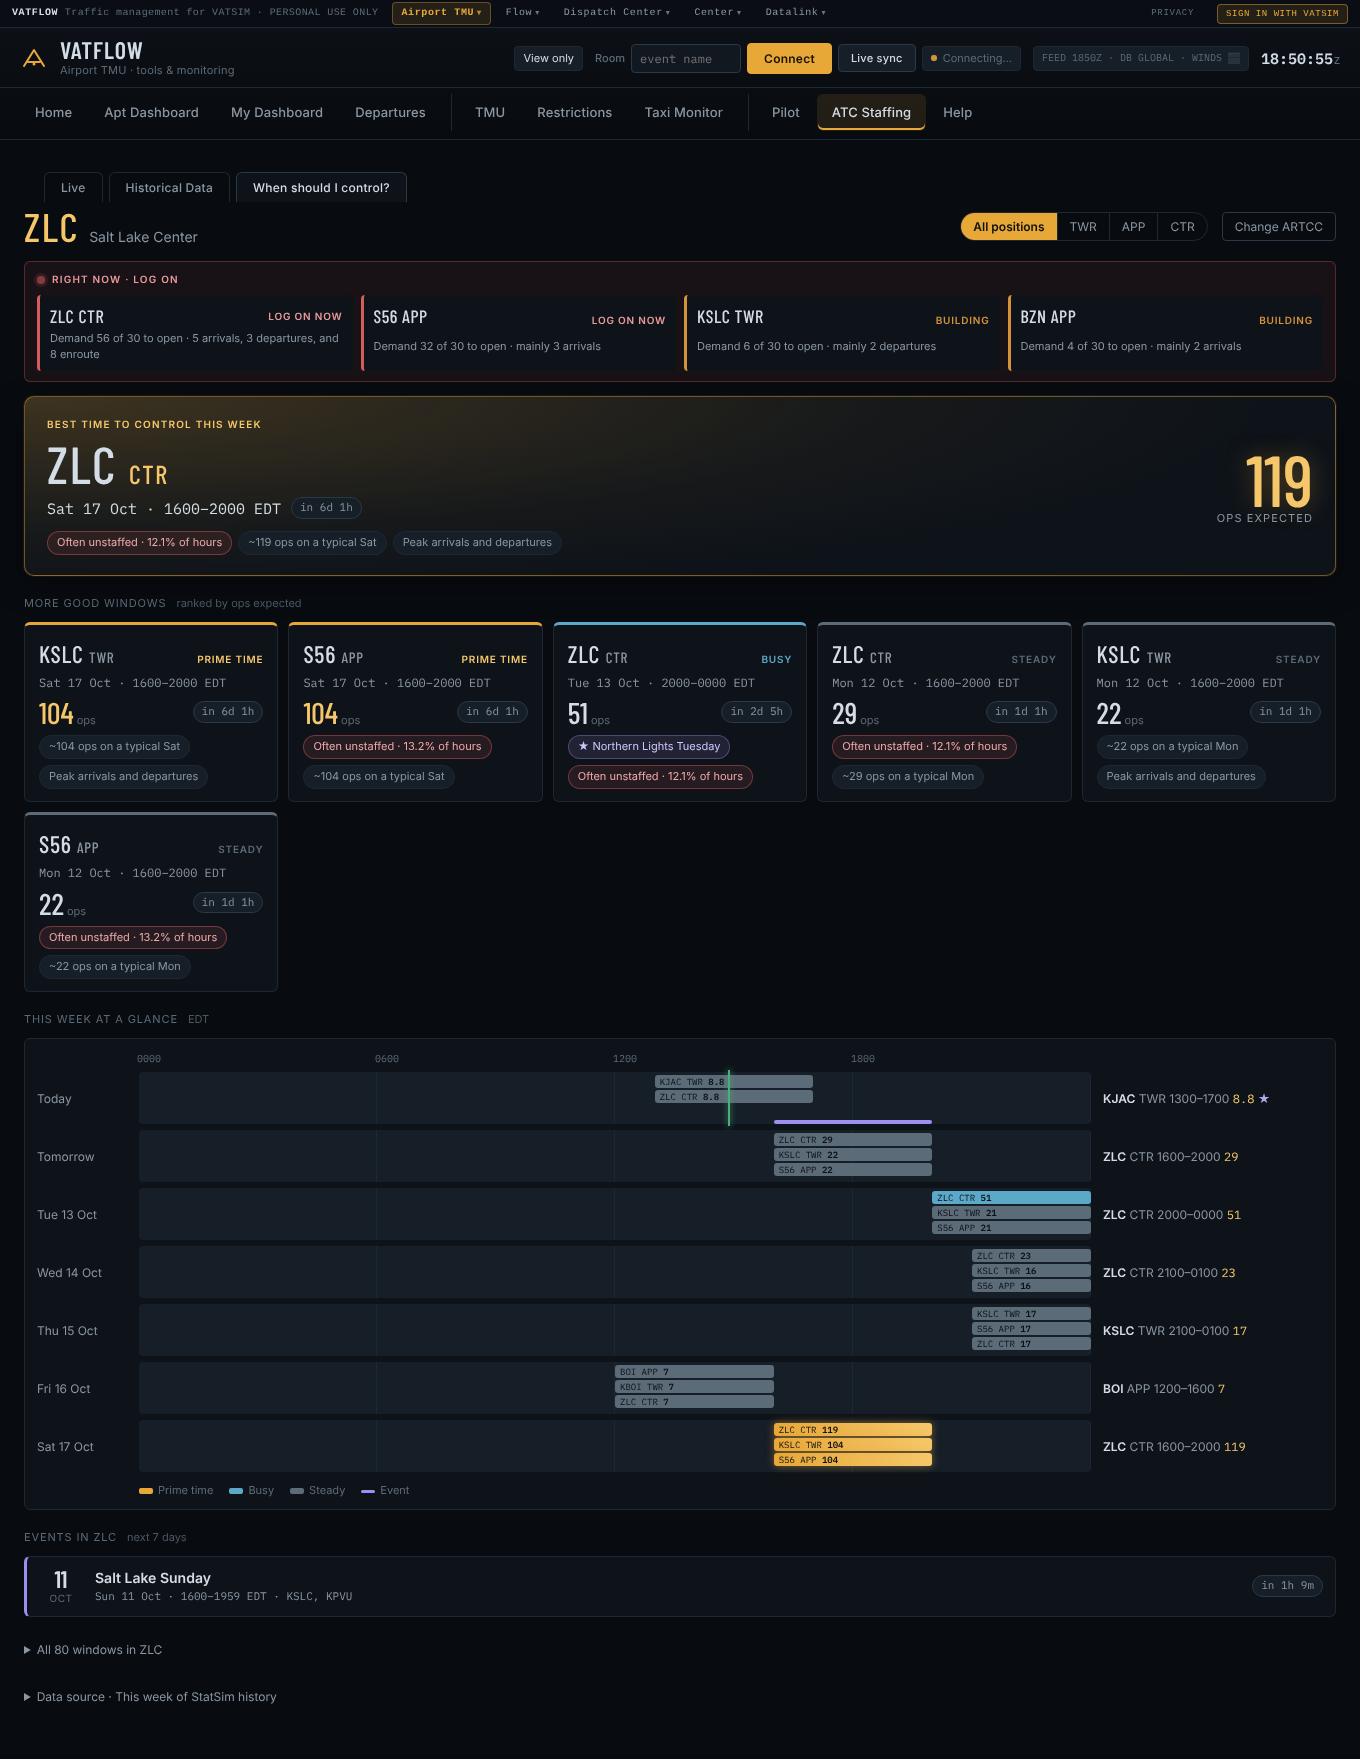
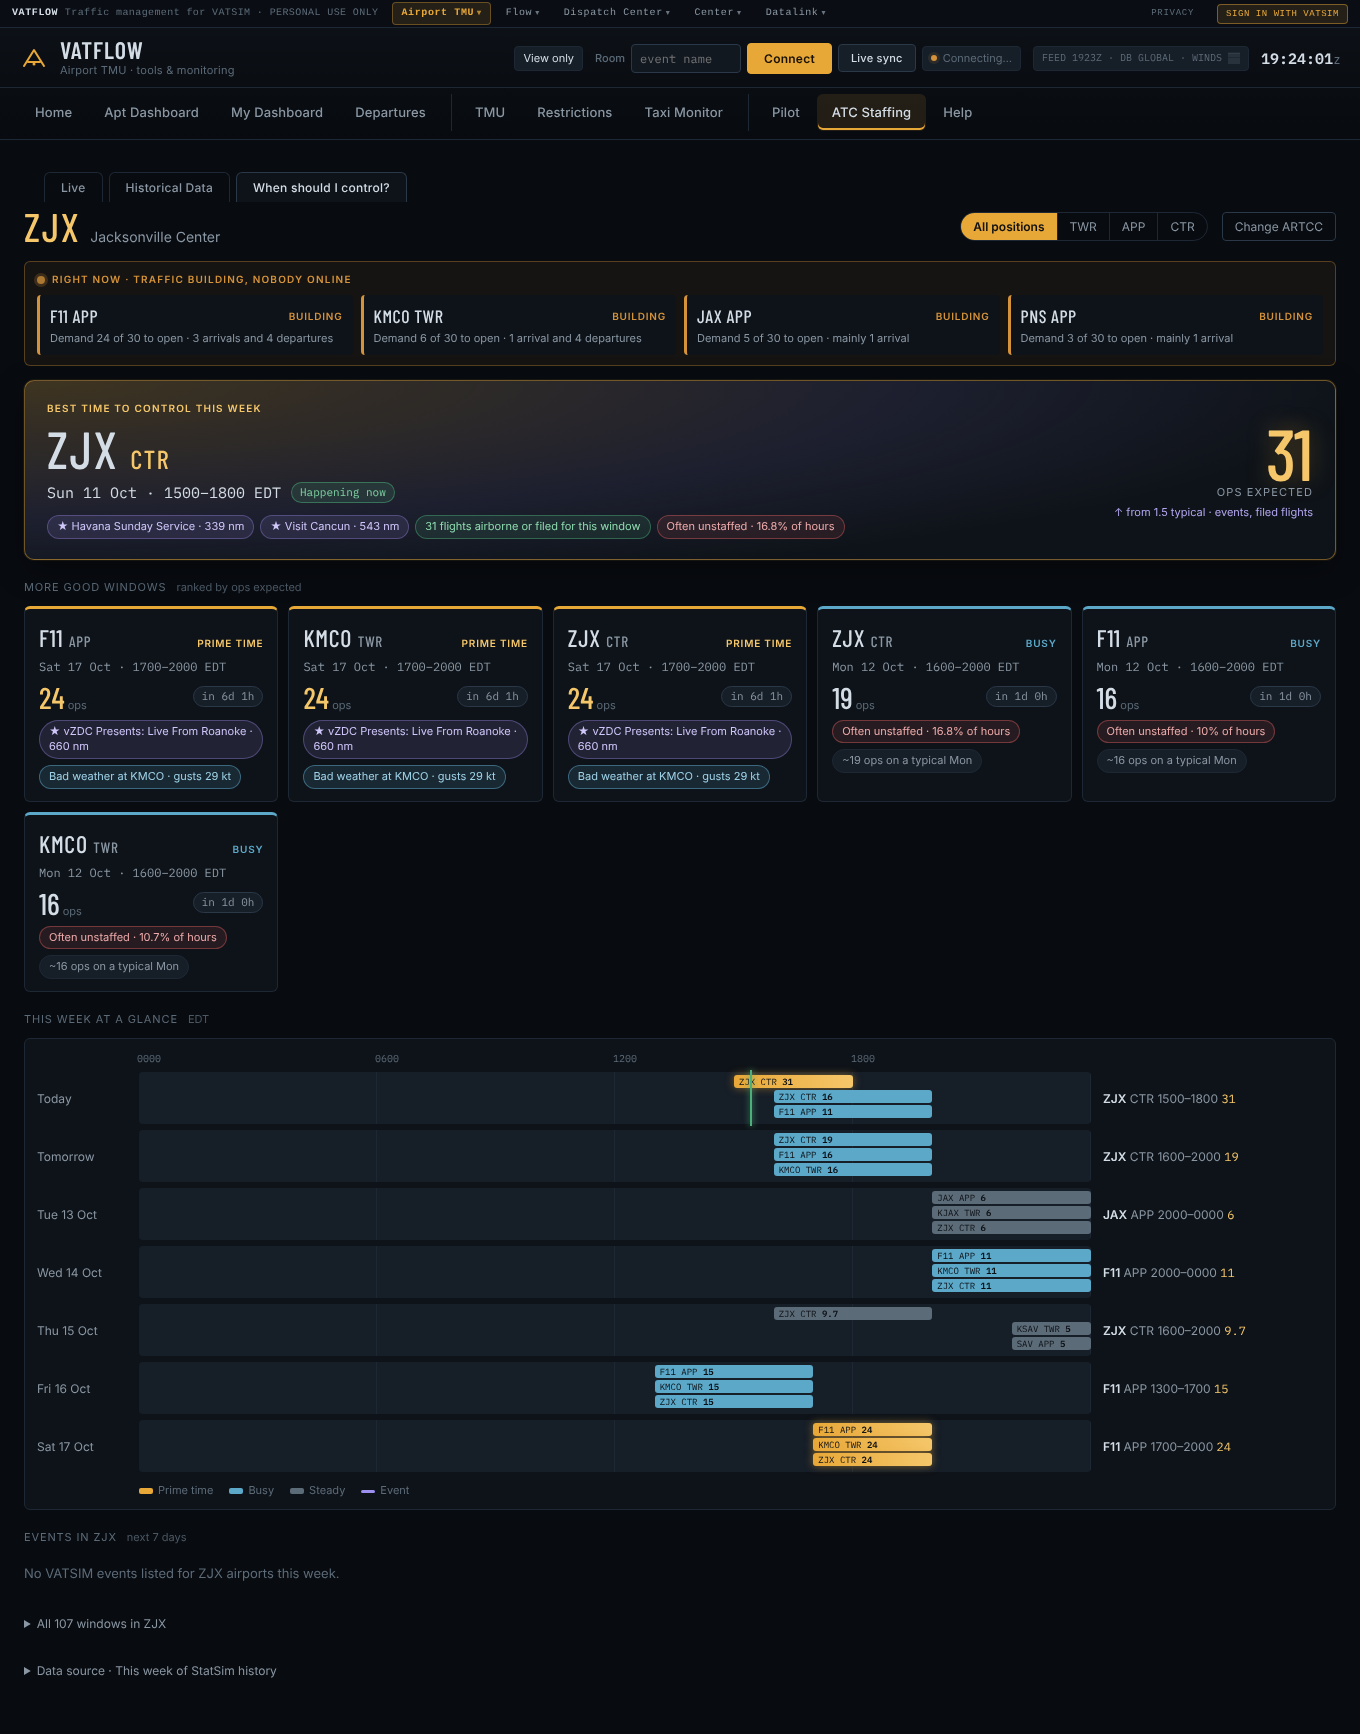
When should I control: predictions use live flights, prefiles, forecast weather, 2h events
- Board prediction takes the higher of history (with event uplift) and the
  flights already airborne, on the ground or prefiled for the window.
- NWS gridpoint forecast at the busiest field: gusts 25 kt+, visibility under
  1 SM or a ceiling under 200 ft adds 25%, shown as a reason chip.
- Events count out to 800 nm (about 2 hours' flight), from when their traffic
  would leave; full uplift within 150 nm, 0.6 weight beyond.

Claude-Session: https://claude.ai/code/session_01LQhLCojNVRJUVpgFQRFV3V

diff --git a/vatflow-tbfm v2.html b/vatflow-tbfm v2.html
@@ -1109,6 +1109,8 @@ tr:hover td { background: rgba(255, 255, 255, 0.02); }
 .wsic-chips { display: flex; flex-wrap: wrap; gap: 6px; }
 .wsic-chip { font-size: 11px; padding: 3px 9px; border-radius: 999px; background: var(--elevated); border: 1px solid var(--border); color: var(--text-dim); }
 .wsic-chip.ev { background: rgba(123, 110, 184, 0.18); border-color: rgba(123, 110, 184, 0.5); color: #cfc6fa; }
+.wsic-chip.wx { background: rgba(91, 168, 201, 0.15); border-color: rgba(91, 168, 201, 0.5); color: #9fd2e8; }
+.wsic-chip.live { background: rgba(76, 175, 122, 0.13); border-color: rgba(76, 175, 122, 0.45); color: #8fdcb0; }
 .wsic-chip.gap { background: rgba(212, 92, 92, 0.12); border-color: rgba(212, 92, 92, 0.45); color: #eeaaaa; }
 .wsic-sec { font-size: 11px; color: var(--text-muted); letter-spacing: 0.08em; text-transform: uppercase; margin: 20px 0 10px; display: flex; gap: 10px; align-items: baseline; }
 .wsic-sec span { text-transform: none; letter-spacing: 0; color: var(--text-muted); opacity: 0.8; }
@@ -4241,6 +4243,7 @@ function computeStaffingRecommendations() {
     centers: centerRows,
     approaches: appRows,
     towers: twrRows.slice(0, 40),
+    maps: { CTR: centers, APP: approaches, TWR: towers },
     boundariesReady: boundariesStatus === "ok",
     controllerCount: controllers.length
   };
@@ -4303,7 +4306,10 @@ const STAFFING_HIST_PERIODS = [
 const STAFFING_HIST_DOW = ["Sun", "Mon", "Tue", "Wed", "Thu", "Fri", "Sat"];
 const STATSIM_COUNTRY_US = "https://statsim.net/flights/countries/country/US/";
 const VATSIM_EVENTS_URL = "https://my.vatsim.net/api/v2/events/latest";
-const STAFF_EVENT_RADIUS_NM = 500;
+const STAFF_EVENT_RADIUS_NM = 800;     /* about 2 hours' flight: event traffic from this far still passes through */
+const STAFF_EVENT_LOCAL_NM = 150;      /* events this close get the full uplift; farther ones feed traffic in or out */
+const STAFF_EVENT_FEEDER_WEIGHT = 0.6;
+const STAFF_EVENT_GS_KT = 420;         /* rough block speed to turn distance into flight time */
 const STAFF_EVENT_SCORE_BOOST = 0.35;   /* +35% predicted ops per overlapping nearby event (capped at 2) */
 const STATSIM_FETCH_PROXIES = [
   u => "https://r.jina.ai/https://" + u.replace(/^https?:\/\//, ""),
@@ -5402,7 +5408,9 @@ function histUpcomingEventsForSlot(slot, win, networkEvents) {
   const nearbyMap = {};
   for (const icao of ids) {
     for (const ev of eventsNearAirport(icao, networkEvents || [], radius)) {
-      if (!(ev.startMs < win.endMs && ev.endMs > win.startMs)) continue;
+      /* Feeder traffic leaves this far from the event about one flight time before it starts. */
+      const leadMs = Math.min(2, ev.nm / STAFF_EVENT_GS_KT) * 3600000;
+      if (!(ev.startMs - leadMs < win.endMs && ev.endMs > win.startMs)) continue;
       const k = String(ev.id);
       if (!nearbyMap[k] || ev.nm < nearbyMap[k].nm) nearbyMap[k] = ev;
     }
@@ -5466,8 +5474,10 @@ function enrichStaffingHistTableRow(slot, networkEvents, nowMs) {
   const avgDep = histRoundOps((staffWin.dep || 0) / samples);
   const avgArr = histRoundOps((staffWin.arr || 0) / samples);
   const eventCount = upcomingEvents.length;
+  const eventWeight = upcomingEvents.reduce((w, ev) =>
+    w + (ev.nm <= STAFF_EVENT_LOCAL_NM ? 1 : STAFF_EVENT_FEEDER_WEIGHT), 0);
   const eventMult = eventCount
-    ? (1 + STAFF_EVENT_SCORE_BOOST * Math.min(2, eventCount))
+    ? (1 + STAFF_EVENT_SCORE_BOOST * Math.min(2, eventWeight))
     : 1;
   let predOps = win ? histRoundOps(avgOps * eventMult) : 0;
   const artcc = histSlotArtcc(slot);
@@ -5605,7 +5615,15 @@ function wsicReasons(row, cov) {
   const out = [];
   for (const ev of (row.upcomingEvents || []).slice(0, 2)) {
     const name = String(ev.name || "Event");
-    out.push({ cls: "ev", text: "\u2605 " + (name.length > 34 ? name.slice(0, 32) + "\u2026" : name) });
+    out.push({ cls: "ev", text: "\u2605 " + (name.length > 34 ? name.slice(0, 32) + "\u2026" : name) +
+      (ev.nm > STAFF_EVENT_LOCAL_NM ? " \u00b7 " + ev.nm + " nm" : "") });
+  }
+  if (row.wxBad && row.wxBad.length) {
+    out.push({ cls: "wx", text: "Bad weather at " + row.wxIcao + " \u00b7 " + row.wxBad.join(", ") });
+  }
+  if (row.liveCount) {
+    out.push({ cls: "live", text: row.liveCount + " flight" + (row.liveCount === 1 ? "" : "s") +
+      " airborne or filed for this window" });
   }
   const pct = cov[row.type + "|" + row.id];
   if (pct != null) {
@@ -5632,10 +5650,104 @@ function wsicTraconArtcc(tid) {
   return best;
 }
 /** Live feed positions in this ARTCC that want a controller right now. */
-function wsicLiveNow(artcc) {
+/* ---- Prediction adjustments: live flights + prefiles, forecast weather ---- */
+const WSIC_WX_TTL_MS = 60 * 60000;
+const WSIC_WX_BOOST = 0.25;            /* bad weather: every arrival is an approach to work */
+const WSIC_WX_MAX_FIELDS = 10;
+let wsicWx = {};                       /* icao -> { status, props, at } */
+/** Field whose weather stands for this window (the tower, or the busiest field under an APP / CTR). */
+function wsicAnchor(row) {
+  if (row.type === "TWR") return row.id;
+  let best = "", n = -1;
+  for (const [icao, v] of Object.entries(row.airports || {})) if (v > n) { best = icao; n = v; }
+  return best;
+}
+function wsicEnsureWx(icaos) {
+  const now = Date.now();
+  for (const icao of icaos) {
+    const c = wsicWx[icao];
+    if (c && (c.status === "loading" || now - c.at < WSIC_WX_TTL_MS)) continue;
+    const ll = lookup(icao);
+    if (!ll) { wsicWx[icao] = { status: "error", at: now }; continue; }
+    wsicWx[icao] = { status: "loading", at: now };
+    evNwsGrid(ll).then(props => {
+      wsicWx[icao] = { status: "ok", props, at: Date.now() };
+    }).catch(() => {
+      wsicWx[icao] = { status: "error", at: Date.now() };
+    }).finally(() => {
+      if (staffingSub === "lookup") renderContent();
+    });
+  }
+}
+/** Forecast in the window that makes it hard work: gusts, visibility under 1 SM, ceiling under 200 ft. */
+function wsicBadWx(props, startMs, endMs) {
+  const EP = window.VF_EventPlan;
+  if (!props || !EP) return [];
+  const vals = layer => {
+    const out = [];
+    for (const x of (layer && layer.values) || []) {
+      const r = EP.parseValidTime(x.validTime);
+      if (r && r[1] > startMs && r[0] < endMs && x.value != null) out.push(x.value);
+    }
+    return out;
+  };
+  const bad = [];
+  const gust = vals(props.windGust);
+  const gustKt = gust.length ? Math.round(Math.max(...gust) / 1.852) : 0;
+  if (gustKt >= 25) bad.push("gusts " + gustKt + " kt");
+  const vis = vals(props.visibility);
+  const visSm = vis.length ? Math.min(...vis) / 1609.34 : 99;
+  if (visSm < 1) bad.push("vis " + (Math.round(visSm * 10) / 10) + " SM");
+  /* NWS sends a negative height for "no ceiling" */
+  const ceil = vals(props.ceilingHeight).filter(v => v > 0);
+  const ceilFt = ceil.length ? Math.min(...ceil) * 3.28084 : 99999;
+  if (ceilFt < 200) bad.push("ceiling " + Math.round(ceilFt) + " ft");
+  return bad;
+}
+/** Live arrivals / departures (airborne, on the ground, prefiled) timed inside the window. */
+function wsicLiveCount(rec, row) {
+  const d = rec && rec.maps && rec.maps[row.type] && rec.maps[row.type][row.id];
+  if (!d) return 0;
+  let n = 0;
+  for (const ev of d.events) if (ev.t >= row.upcomingStartMs && ev.t < row.upcomingEndMs) n++;
+  return n;
+}
+/**
+ * Board prediction: history (with event uplift) or the flights already airborne / filed
+ * for the window, whichever is higher, raised when the field's forecast is bad.
+ */
+function wsicAdjustRows(rows, rec) {
+  const pre = rows.map(r => {
+    const liveCount = wsicLiveCount(rec, r);
+    return Object.assign({}, r, { liveCount, wxIcao: wsicAnchor(r), predOps: Math.max(r.predOps, liveCount) });
+  });
+  const fields = [];
+  for (const r of wsicRankRows(pre)) {
+    if (r.wxIcao && fields.indexOf(r.wxIcao) === -1) fields.push(r.wxIcao);
+    if (fields.length >= WSIC_WX_MAX_FIELDS) break;
+  }
+  wsicEnsureWx(fields);
+  for (const r of pre) {
+    const wx = wsicWx[r.wxIcao];
+    r.wxBad = wx && wx.status === "ok" ? wsicBadWx(wx.props, r.upcomingStartMs, r.upcomingEndMs) : [];
+    if (r.wxBad.length) r.predOps = histRoundOps(r.predOps * (1 + WSIC_WX_BOOST));
+  }
+  return pre;
+}
+function wsicUpliftWhy(row) {
+  const why = [];
+  if (row.eventBoost) why.push("events");
+  if (row.liveCount > row.avgOps) why.push("filed flights");
+  if (row.wxBad && row.wxBad.length) why.push("weather");
+  return why.join(", ");
+}
+function wsicLiveRec() {
   if (!vatsim) return null;
   ensureBoundariesIfNeeded();
-  const rec = computeStaffingRecommendations();
+  return computeStaffingRecommendations();
+}
+function wsicLiveNow(rec, artcc) {
+  if (!rec) return null;
   const out = [];
   for (const r of rec.centers) if (r.id === artcc) out.push(r);
   for (const r of rec.approaches) if (wsicTraconArtcc(r.id) === artcc) out.push(r);
@@ -5673,7 +5785,11 @@ function wsicDataSourceHtml() {
   h += '<div class="staffnote">Windows are the busiest 2\u20134 hours for each facility and weekday in the loaded ' +
     "StatSim period, placed on their next date in the coming 7 days. <b>Ops expected</b> is the typical " +
     "arrivals + departures in that window, raised " + Math.round(STAFF_EVENT_SCORE_BOOST * 100) +
-    "% per overlapping VATSIM event within " + STAFF_EVENT_RADIUS_NM + " nm (max two). " +
+    "% per overlapping VATSIM event within " + STAFF_EVENT_LOCAL_NM + " nm, and less for events up to " +
+    STAFF_EVENT_RADIUS_NM + " nm away (about 2 hours\u2019 flight, counted from when their traffic would leave), max two. " +
+    "If more flights are already airborne, on the ground, or prefiled for the window than history expects, that count is used. " +
+    "A forecast of gusts 25 kt+, visibility under 1 SM, or a ceiling under 200 ft (NWS gridpoint forecast at the busiest field) adds " +
+    Math.round(WSIC_WX_BOOST * 100) + "%. " +
     "<b>Usually unstaffed</b> uses StatSim controller hours for the same period. " +
     "Open <b>Historical Data</b> for the full national table.</div>";
   return h + "</details>";
@@ -5791,7 +5907,8 @@ function renderWsicBoard(res) {
   h += wsicStatusBanner();
 
   /* Right now: live feed demand with nobody online */
-  const live = wsicLiveNow(artcc);
+  const rec = wsicLiveRec();
+  const live = wsicLiveNow(rec, artcc);
   if (live && live.length) {
     const urgent = live.some(r => r.status === "need");
     h += '<div class="wsic-live' + (urgent ? "" : " warm") + '"><div class="wsic-live-hd"><span class="wsic-dot"></span>' +
@@ -5819,7 +5936,7 @@ function renderWsicBoard(res) {
   }
 
   const all = wsicAllRows(res).filter(r => r.artcc === artcc && (!type || r.type === type));
-  const ranked = wsicRankRows(all.filter(wsicUpcoming));
+  const ranked = wsicRankRows(wsicAdjustRows(all.filter(wsicUpcoming), rec));
   const events = wsicArtccEvents(res, artcc, now);
   const cov = wsicCoverageMap();
   const max = ranked.length ? ranked[0].predOps : 0;
@@ -5842,8 +5959,8 @@ function renderWsicBoard(res) {
     ' <span class="wsic-cd' + (cd.live ? " live" : "") + '">' + esc(cd.text) + "</span></div>" +
     '<div class="wsic-chips">' + wsicChipsHtml(bestReasons, 4) + "</div></div>" +
     '<div class="wsic-hero-num"><div class="n">' + best.predOps + "</div><div class=\"l\">ops expected</div>" +
-    (best.eventBoost && best.predOps !== best.avgOps
-      ? '<div class="up">\u2191 from ' + best.avgOps + " with events</div>" : "") +
+    (best.predOps > best.avgOps && wsicUpliftWhy(best)
+      ? '<div class="up">\u2191 from ' + best.avgOps + " typical \u00b7 " + esc(wsicUpliftWhy(best)) + "</div>" : "") +
     "</div></div>";
 
   /* Next best windows */
@@ -7042,7 +7159,8 @@ function renderStaffingHistorical() {
     "<b>Avg ops</b> = typical arr+dep movements in the focused <b>2\u20134 hour</b> staff-up block on that weekday " +
     "(total sample movements \u00f7 number of those weekdays in the period). " +
     "<b>Pred. ops</b> = avg ops for the next matching day, raised when a nearby VATSIM event " +
-    "(within " + STAFF_EVENT_RADIUS_NM + " nm) overlaps that window (+35% per event, max two). " +
+    "(within " + STAFF_EVENT_RADIUS_NM + " nm, about 2 hours\u2019 flight) overlaps that window " +
+    "(+35% per event within " + STAFF_EVENT_LOCAL_NM + " nm, less for farther feeder events, max two). " +
     "Filter Facility/ARTCC (e.g. ZJX), Type (TWR / APP / CTR), or Day (Mon). " +
     "Process live / Paste remain available as fallbacks. " +
     "Open <b>Staff it &amp; they will come?</b> to compare staffing against pilot traffic for the period.</div>";
@@ -7257,7 +7375,8 @@ function renderHelp() {
     '<b>Movements vs ATC</b> (This year scatter plots with trend lines for CTR / APP / TWR).</li>' +
     '<li><b>When should I control?</b> starts with your ARTCC, then shows the best window this week, more good windows, ' +
     'a 7-day timeline, events in your airspace, and live demand with nobody online. Times are in your local time.</li>' +
-    '<li>Historical times are <b>Zulu</b>. Upcoming <b>VATSIM events</b> within <b>500 nm</b> boost overlapping slots. ' +
+    '<li>Historical times are <b>Zulu</b>. Upcoming <b>VATSIM events</b> within <b>800 nm</b> (about 2 hours\u2019 flight) boost overlapping slots, ' +
+    'full uplift within 150 nm and less for farther feeder events. ' +
     'Controller examinations are excluded.</li></ul></div></details>' +
 
     '<div class="helpsec" id="help-tools">VATFLOW suite</div>' +
